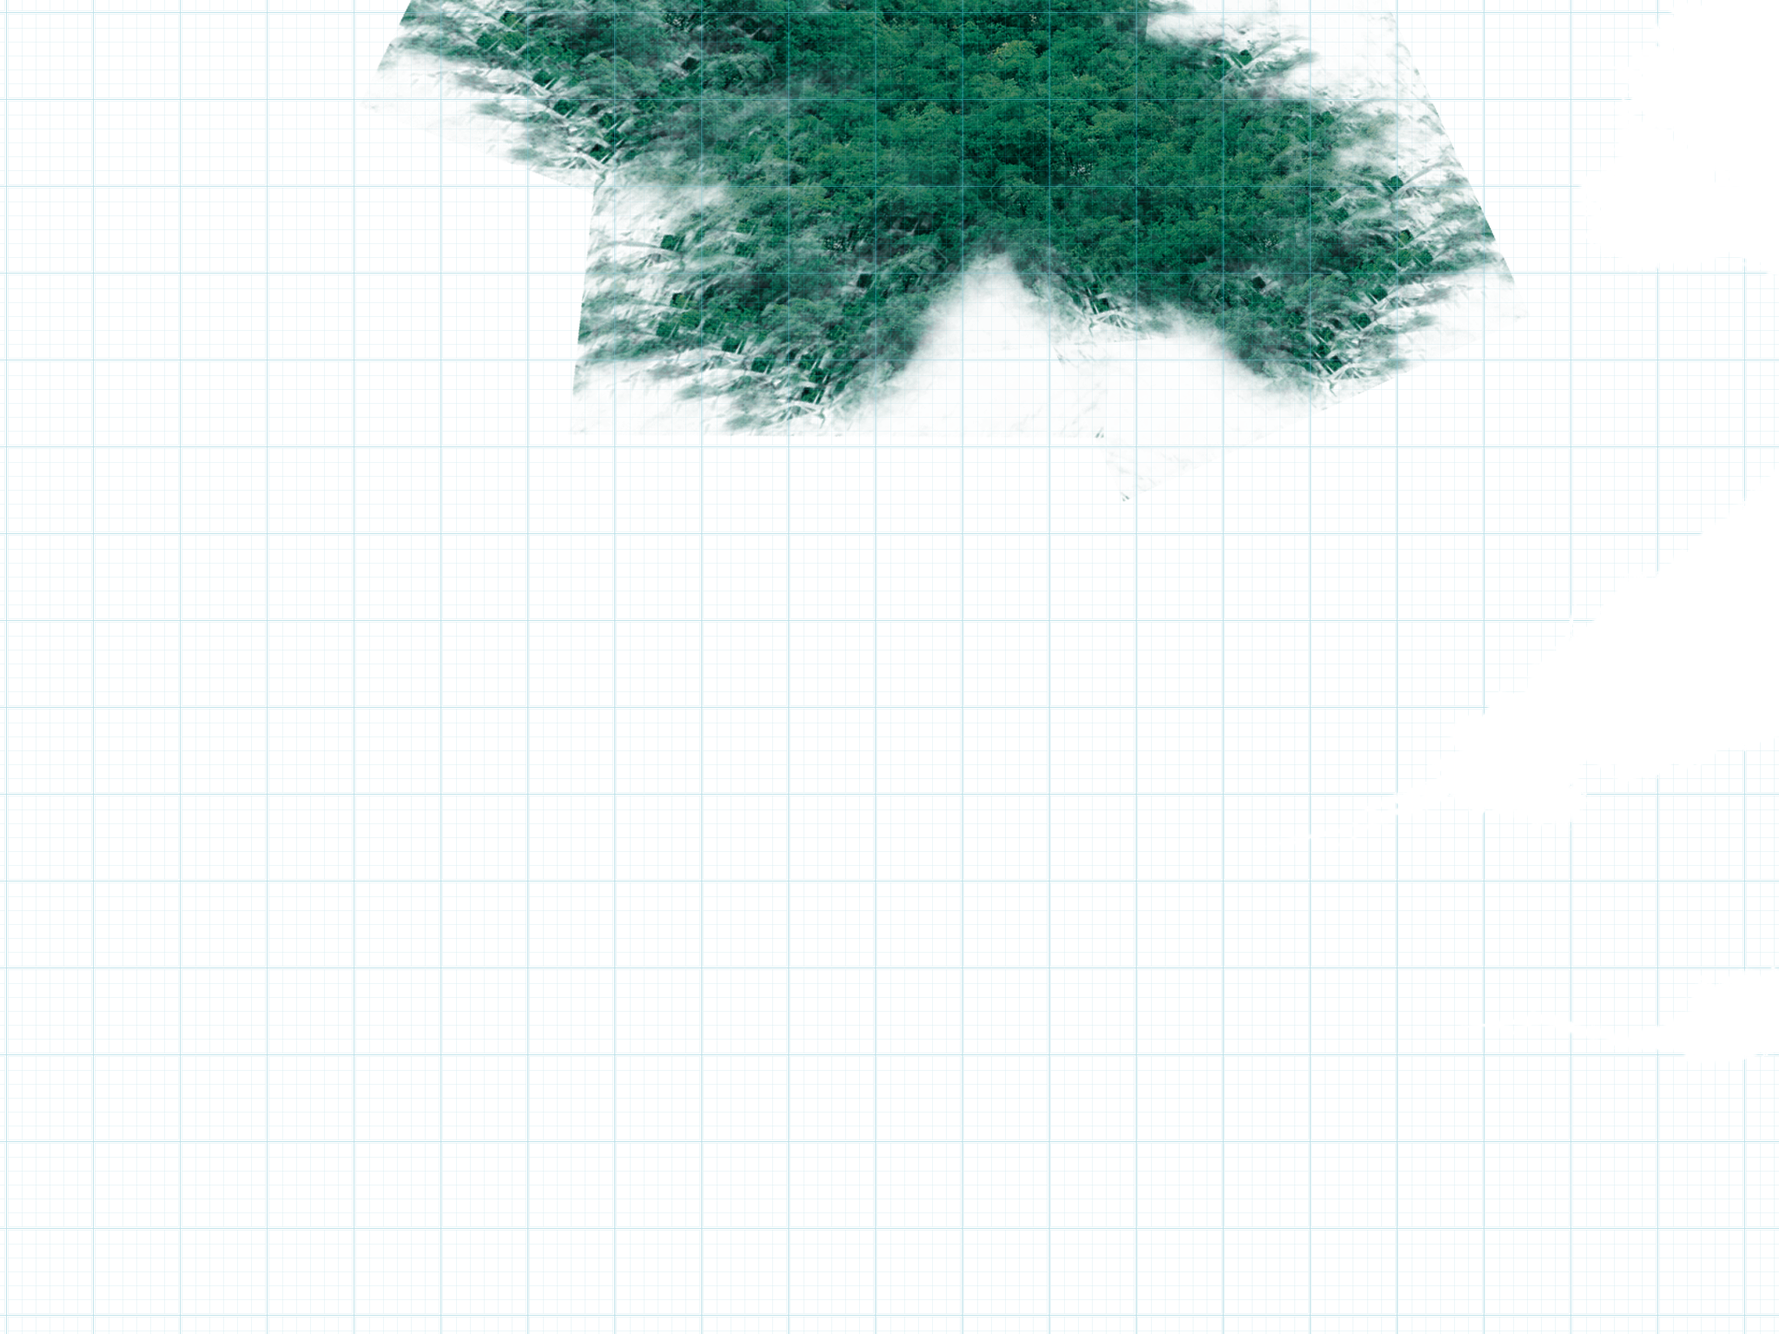
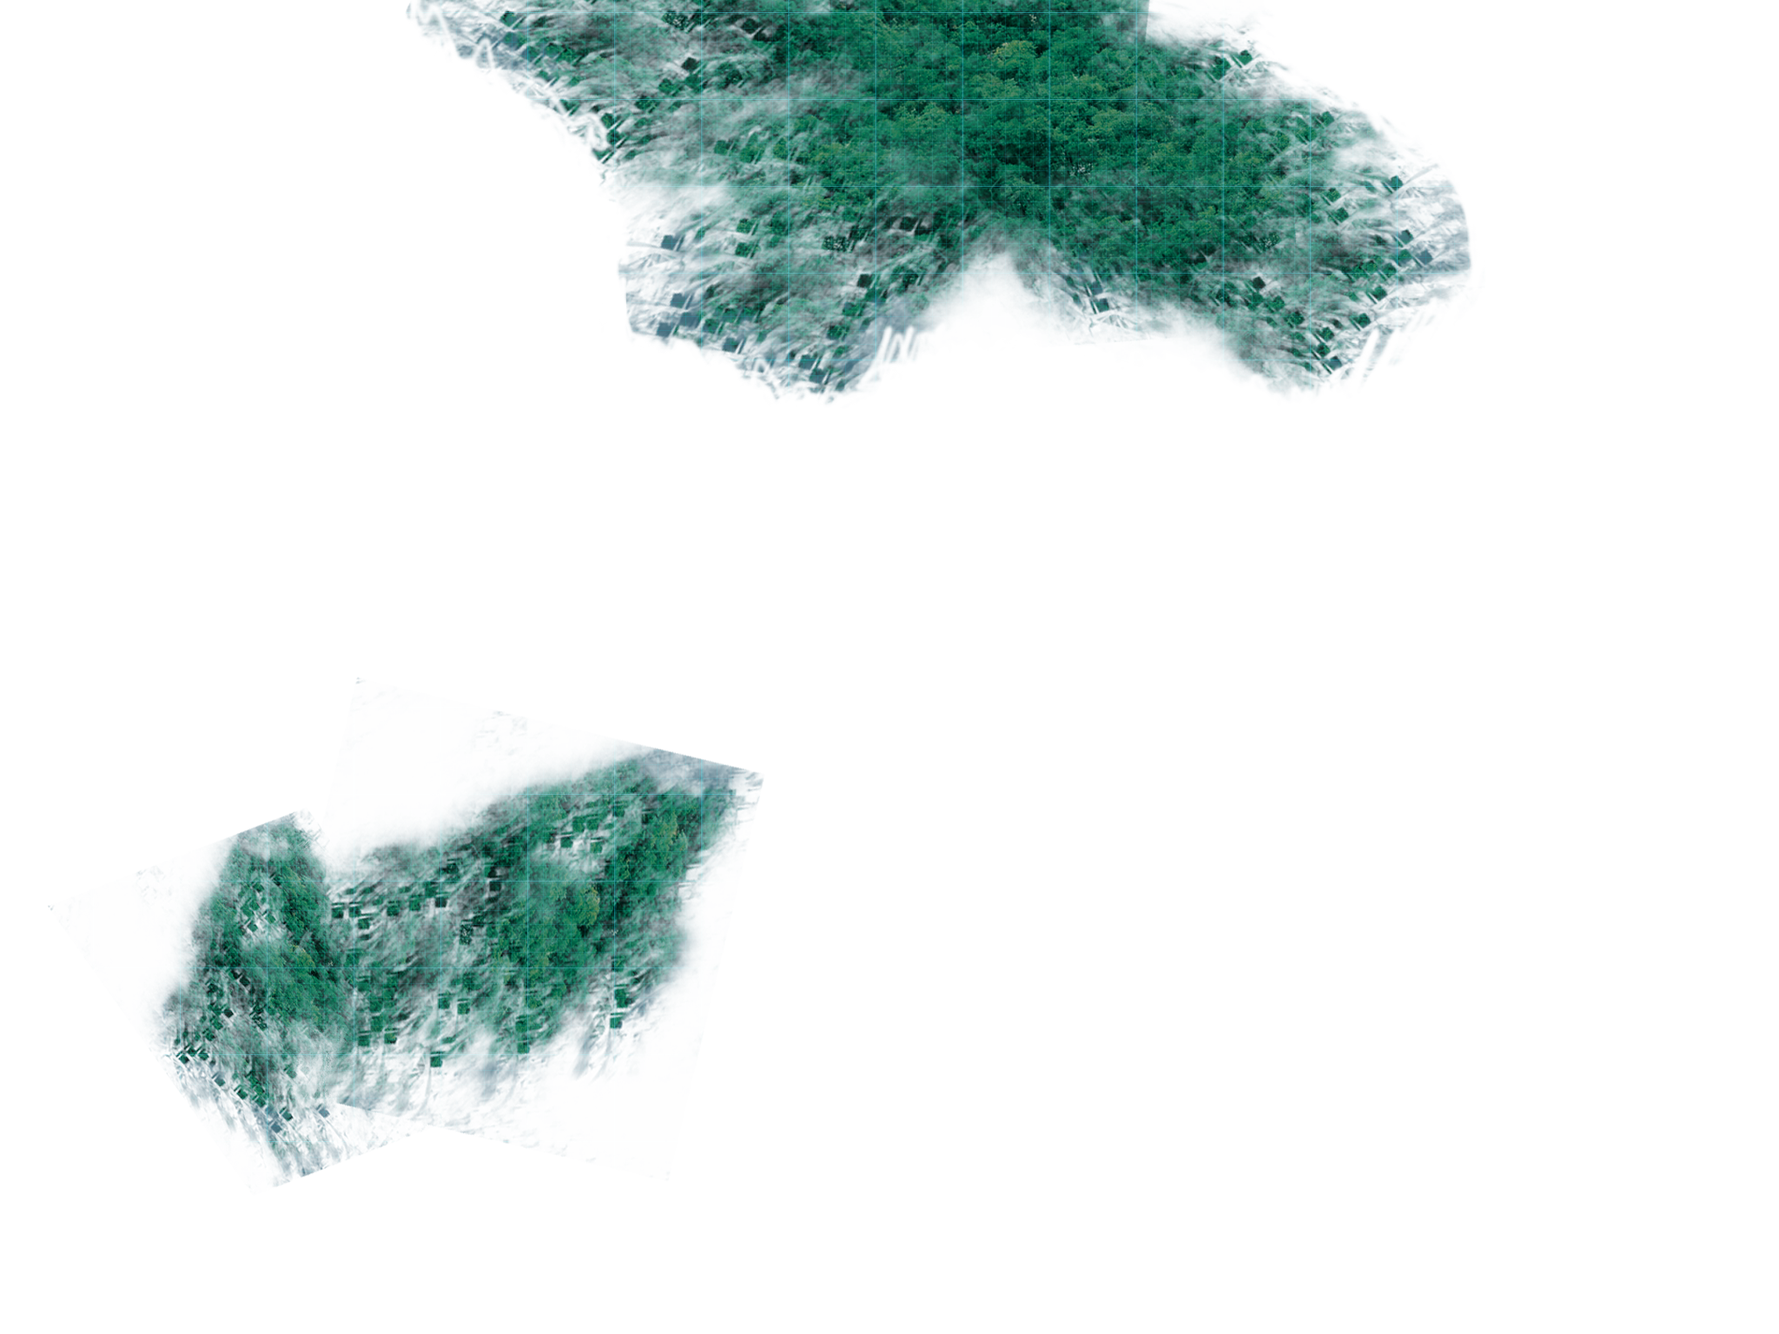
Progress time bar and fail window

Changed region(s): [[0.2188, 0.0, 0.875, 0.3438], [0.0625, 0.5625, 0.4375, 0.9062]]

diff --git a/Classes/UIGameplayMap.cpp b/Classes/UIGameplayMap.cpp
@@ -38,13 +38,17 @@ bool UIGameplayMap::init()
     Size visibleSize = Director::getInstance()->getVisibleSize();
     Vec2 origin = Director::getInstance()->getVisibleOrigin();
 
+    Size contentSize;
+    contentSize.width = 2048;
+    contentSize.height = 1536;
+
     string map = GameLevel::getInstance()->getMapFilename();
-    cout << "MAPA " << map << endl;
     //fer DEFINES
     string ext = ".png";
     string background = "Background";
     string hotSpotsBase = "HotSpotsBase";
     string resources = "Resources";
+    string forest = "Forest";
 
     /*auto ff = MenuItemImage::create("Level0FFFocus.png", "Level0FFFocus.png");
     ff->setOpacity(160);
@@ -110,7 +114,6 @@ bool UIGameplayMap::init()
     dataGameplayMapHotSpot = gameplayMapHotSpot->getData();
 
     //RESOURCES MAP (IF ANY)
-    bool resourcesMap = false;
     for (int i = 0; i < GameLevel::getInstance()->getGoals().size(); i++) {
         if (GameLevel::getInstance()->getGoals()[i]->getGoalType() == "Collection") {
             resourcesMap = true;
@@ -125,6 +128,24 @@ bool UIGameplayMap::init()
         }
         dataGameplayMapResources = new unsigned char[gameplayMapResources->getDataLen() * x];
         dataGameplayMapResources = gameplayMapResources->getData();
+
+        exploitedMapTexture = new Texture2D;
+        Image* im = new Image();
+        im->initWithImageFile(map + forest + ext);
+        //4 = alpha
+        unsigned char* data = new unsigned char[im->getDataLen() * 4];
+        data = im->getData();
+
+        exploitedMapTexture->initWithData(exploitedMapTextureData, 2048 * 1536, Texture2D::PixelFormat::RGBA8888, 2048, 1536, contentSize);
+        for (int i = 0; i < im->getWidth(); i++) {
+            for (int j = 0; j < im->getHeight(); j++) {
+                unsigned char* pixel = data + ((int)i + (int)j * im->getWidth()) * 4;
+                exploitedMapTextureData[i + (j * im->getWidth())] = Color4B(*(pixel), *(pixel + 1), *(pixel + 2), *(pixel + 3));
+            }
+        }
+        exploitedMapSprite = Sprite::createWithTexture(exploitedMapTexture);
+        exploitedMapSprite->setPosition(Vec2(visibleSize.width / 2 + origin.x, visibleSize.height / 2 + origin.y));
+        gameplayMap->addChild(exploitedMapSprite, 1);
     }
 
     GameLevel::getInstance()->setUIGameplayMap(this);
@@ -140,34 +161,12 @@ bool UIGameplayMap::init()
         exploitedMapTextureData[i] = white; // i is an index running from 0 to w*h-1
     }
 
-    Size contentSize;
-    contentSize.width = 2048;
-    contentSize.height = 1536;
-
     agentsTexture = new Texture2D;
     agentsTexture->initWithData(agentsTextureData, 2048 * 1536, Texture2D::PixelFormat::RGBA8888, 2048, 1536, contentSize);
     agentsSprite = Sprite::createWithTexture(agentsTexture);
     agentsSprite->setPosition(Vec2(visibleSize.width / 2 + origin.x, visibleSize.height / 2 + origin.y));
     gameplayMap->addChild(agentsSprite, 2);
     agentsSprite->setCascadeOpacityEnabled(true);
-
-    exploitedMapTexture = new Texture2D;
-    Image* im = new Image();
-    im->initWithImageFile("Level2Forest.png");
-    //4 = alpha
-    unsigned char* data = new unsigned char[im->getDataLen() * 4];
-    data = im->getData();
-
-    exploitedMapTexture->initWithData(exploitedMapTextureData, 2048 * 1536, Texture2D::PixelFormat::RGBA8888, 2048, 1536, contentSize);
-    for (int i = 0; i < im->getWidth(); i++) {
-        for (int j = 0; j < im->getHeight(); j++) {
-            unsigned char* pixel = data + ((int)i + (int)j * im->getWidth()) * 4;
-            exploitedMapTextureData[i + (j * im->getWidth())] = Color4B(*(pixel), *(pixel + 1), *(pixel + 2), *(pixel + 3));
-        }
-    }
-    exploitedMapSprite = Sprite::createWithTexture(exploitedMapTexture);
-    exploitedMapSprite->setPosition(Vec2(visibleSize.width / 2 + origin.x, visibleSize.height / 2 + origin.y));
-    gameplayMap->addChild(exploitedMapSprite, 1);
 
     //EVOLUTION POINTS
     //string(LocalizedString::create("EVOLUTION_POINTS")->getCString())
@@ -233,7 +232,7 @@ bool UIGameplayMap::init()
     timeSteps = Label::createWithSystemFont(to_string(GameLevel::getInstance()->getTimeSteps()), "Arial Rounded MT Bold", 70);
     timeSteps->setPosition(Vec2(pauseButton->getPosition().x - pauseButton->getContentSize().width * 1.5,
                                 pauseButton->getPosition().y));
-    this->addChild(timeSteps, 2);
+    //this->addChild(timeSteps, 2);
 
     //Attribute values
     /*Vector<MenuItem*> attributesButtons;
@@ -332,7 +331,7 @@ bool UIGameplayMap::init()
                 distanceLabel = Label::createWithTTF(" ", "fonts/BebasNeue.otf", 40);
                 distanceLabel->setColor(Color3B(216, 229, 235));
                 distanceLabel->setPosition(visibleSize.width - 80, visibleSize.height - 300);
-                this->addChild(distanceLabel);
+                //this->addChild(distanceLabel);
             } else {
                 area->setColor(Color3B::RED);
             }
@@ -346,13 +345,14 @@ bool UIGameplayMap::init()
     timeBorderBar = Sprite::create("ProgressBarBorder.png");
     timeBorderBar->setPosition(102 * visibleSize.width / 204, 145 * visibleSize.height / 155);
     this->addChild(timeBorderBar);
-    timeBar = ProgressTimer::create(Sprite::create("ProgressBarContent.png"));
+    auto barContent = Sprite::create("ProgressBarContent.png");
+    timeBar = ProgressTimer::create(barContent);
     timeBar->setType(ProgressTimer::Type::BAR);
     timeBar->setAnchorPoint(Vec2(0, 0));
     timeBar->setMidpoint(Vec2(0, 0));
     timeBar->setBarChangeRate(Vec2(1, 0));
     timeBar->setPosition(0, 0);
-    timeBorderBar->addChild(timeBar);
+    timeBorderBar->addChild(timeBar, 3);
     auto labelGoals = Label::createWithTTF(string(LocalizedString::create("GOALS")->getCString()), "fonts/BebasNeue.otf", 48);
     labelGoals->setColor(Color3B(139, 146, 154));
     labelGoals->setAnchorPoint(Vec2(0, 0.5));
@@ -360,13 +360,18 @@ bool UIGameplayMap::init()
     timeBorderBar->addChild(labelGoals, 2);
 
     //SET GOALS ON TIME PROGRESS BAR
+    float pixelPerStep = barContent->getTexture()->getPixelsWide()
+                         / (float)GameLevel::getInstance()->getGoals()[GameLevel::getInstance()->getGoals().size() - 1]->getMaxTime();
     for (int i = 0; i < GameLevel::getInstance()->getGoals().size(); i++) {
-        float posX = (float)GameLevel::getInstance()->getGoals()[i]->getAverageTime() / (float)GameLevel::getInstance()->getGoals()[GameLevel::getInstance()->getGoals().size() - 1]->getMaxTime() * timeBorderBar->getContentSize().width;
+        float posXaverage = (float)GameLevel::getInstance()->getGoals()[i]->getAverageTime() / (float)GameLevel::getInstance()->getGoals()[GameLevel::getInstance()->getGoals().size() - 1]->getMaxTime() * timeBorderBar->getContentSize().width;
         auto goalMark = Sprite::create("GoalMark.png");
-        goalMark->setPosition(posX, timeBorderBar->getContentSize().height / 2);
-        timeBorderBar->addChild(goalMark, 2);
+        float posXcentered = (float)(GameLevel::getInstance()->getGoals()[i]->getMinTime() + ((GameLevel::getInstance()->getGoals()[i]->getMaxTime() - GameLevel::getInstance()->getGoals()[i]->getMinTime()) / 2)) / (float)GameLevel::getInstance()->getGoals()[GameLevel::getInstance()->getGoals().size() - 1]->getMaxTime() * timeBorderBar->getContentSize().width;
+        goalMark->setPosition(posXcentered, timeBorderBar->getContentSize().height / 2);
+        //SET SCALE GOAL MARK
+        goalMark->setScaleX((GameLevel::getInstance()->getGoals()[i]->getMaxTime() - GameLevel::getInstance()->getGoals()[i]->getMinTime()) * pixelPerStep);
+        timeBorderBar->addChild(goalMark, 1);
         auto goalNum = Sprite::create("GoalNum.png");
-        goalNum->setPosition(posX, timeBorderBar->getContentSize().height + (3 * visibleSize.height / 155));
+        goalNum->setPosition(posXaverage, timeBorderBar->getContentSize().height + (3 * visibleSize.height / 155));
         auto labelGoalNum = Label::createWithTTF(to_string(i + 1), "fonts/BebasNeue.otf", 30);
         labelGoalNum->setPosition(goalNum->getContentSize().width / 2, goalNum->getContentSize().height / 2);
         labelGoalNum->setColor(Color3B(216, 229, 235));
@@ -1078,6 +1083,16 @@ void UIGameplayMap::moveGoalPopup(int index)
     }
 }
 
+float UIGameplayMap::getTimeProgressBar(void)
+{
+    return timeProgressBar;
+}
+
+void UIGameplayMap::setTimeProgressBar(float t)
+{
+    timeProgressBar = t;
+}
+
 float UIGameplayMap::sqrOfDistanceBetweenPoints(Point p1, Point p2)
 {
     Point diff = p1 - p2;
@@ -1255,8 +1270,6 @@ void UIGameplayMap::initializeAgents(void)
 
 void UIGameplayMap::createEndGameWindow(int mode)
 {
-    //backButton->setVisible(false);
-
     Size visibleSize = Director::getInstance()->getVisibleSize();
     auto background = Sprite::create("EndedGameBackground.png");
     background->setPosition(Vec2(visibleSize.width / 2, visibleSize.height / 2));
@@ -1287,40 +1300,40 @@ void UIGameplayMap::createEndGameWindow(int mode)
             }
             starCount++;
         }
+        auto titleLabel = Label::createWithTTF(title, "fonts/BebasNeue.otf", 120);
+        titleLabel->setColor(Color3B(255, 255, 255));
+        titleLabel->setPosition(5 * window->getContentSize().width / 18, 5 * window->getContentSize().height / 10);
+        window->addChild(titleLabel);
     } else {
         //game over
         title = LocalizedString::create("GAME_OVER")->getCString();
-        auto gameOver = Sprite::create("GameOverIcon.png");
-        gameOver->setScale(0.5, 0.5);
-        gameOver->setPosition(window->getPosition().x / 2, 5.5 * window->getContentSize().height / 8);
-        //window->addChild(gameOver);
 
         if (mode == 2) {
             text = LocalizedString::create("GOAL_NO_COMPLETED")->getCString();
         } else if (mode == 3) {
             text = LocalizedString::create("ALL_AGENTS_DIED")->getCString();
         }
+
+        auto titleLabel = Label::createWithTTF(title, "fonts/BebasNeue.otf", 120);
+        titleLabel->setColor(Color3B(255, 255, 255));
+        titleLabel->setPosition(9 * window->getContentSize().width / 18, 4 * window->getContentSize().height / 10);
+        window->addChild(titleLabel);
+
+        auto textLabel = Label::createWithSystemFont(text, "Corbel", 30);
+        textLabel->setPosition(9 * window->getContentSize().width / 18, 6 * window->getContentSize().height / 10);
+        window->addChild(textLabel);
     }
 
     string space = " ";
     string lvl = LocalizedString::create("LEVEL")->getCString() + space + to_string(GameLevel::getInstance()->getNumLevel());
-    auto levelLabel = Label::createWithTTF(lvl, "fonts/BebasNeue.otf", 136);
-    levelLabel->setColor(Color3B(139, 146, 154));
-    levelLabel->setPosition(Vec2(5 * window->getContentSize().width / 18, 8.5 * window->getContentSize().height / 10));
+    auto levelLabel = Label::createWithTTF(lvl, "fonts/BebasNeue.otf", 100);
+    levelLabel->setColor(Color3B(85, 108, 117));
+    levelLabel->setPosition(Vec2(4 * window->getContentSize().width / 18, 8.5 * window->getContentSize().height / 10));
     window->addChild(levelLabel);
-
-    auto titleLabel = Label::createWithTTF(title, "fonts/BebasNeue.otf", 100);
-    titleLabel->setColor(Color3B(255, 255, 255));
-    titleLabel->setPosition(5 * window->getContentSize().width / 18, 5 * window->getContentSize().height / 10);
-    window->addChild(titleLabel);
-
-    auto textLabel = Label::createWithTTF(text, "fonts/BebasNeue.otf", 50);
-    textLabel->setPosition(titleLabel->getPosition().x, window->getContentSize().height / 2);
-    //window->addChild(textLabel);
 
     auto continueButton = MenuItemImage::create(
         "ProgressMapPlayButton.png", "ProgressMapPlayButtonPressed.png", CC_CALLBACK_1(UIGameplayMap::menuBackCallback, this));
-    continueButton->setPosition(14 * window->getContentSize().width / 18, 2 * window->getContentSize().height / 10);
+    continueButton->setPosition(14 * window->getContentSize().width / 18, 1.5 * window->getContentSize().height / 10);
     auto continueLabel = Label::createWithTTF(LocalizedString::create("CONTINUE")->getCString(), "fonts/BebasNeue.otf", 50);
     continueLabel->setColor(Color3B(205, 202, 207));
     continueLabel->setPosition(continueButton->getContentSize().width / 2, continueButton->getContentSize().height / 2);
@@ -1331,7 +1344,7 @@ void UIGameplayMap::createEndGameWindow(int mode)
 
     auto retryButton = MenuItemImage::create(
         "ProgressMapBackButton.png", "ProgressMapBackButtonPressed.png", CC_CALLBACK_1(UIGameplayMap::retryOkCallback, this));
-    retryButton->setPosition(4 * window->getContentSize().width / 18, 2 * window->getContentSize().height / 10);
+    retryButton->setPosition(4 * window->getContentSize().width / 18, 1.5 * window->getContentSize().height / 10);
     auto retryLabel = Label::createWithTTF(LocalizedString::create("RETRY")->getCString(), "fonts/BebasNeue.otf", 50);
     retryLabel->setColor(Color3B(205, 202, 207));
     retryLabel->setPosition(retryButton->getContentSize().width / 2, retryButton->getContentSize().height / 2);
@@ -1404,7 +1417,9 @@ void UIGameplayMap::updateAgents(void)
     }
 
     agentsTexture->updateWithData(agentsTextureData, 0, 0, 2048, 1536);
-    exploitedMapTexture->updateWithData(exploitedMapTextureData, 0, 0, 2048, 1536);
+    if (resourcesMap) {
+        exploitedMapTexture->updateWithData(exploitedMapTextureData, 0, 0, 2048, 1536);
+    }
 
     /*vector<int> null;
     vector<Point> p;
@@ -1480,8 +1495,7 @@ void UIGameplayMap::update(float delta)
             play = false;
             //clock_t beforeTime = clock();
             updateAgents();
-            timeSteps->setString(to_string(GameLevel::getInstance()->getTimeSteps()));
-            timeBar->setPercentage(float(GameLevel::getInstance()->getTimeSteps()) / float(GameLevel::getInstance()->getGoals().back()->getMaxTime()) * 100.0);
+            //timeSteps->setString(to_string(GameLevel::getInstance()->getTimeSteps()));
             /*if (GameLevel::getInstance()->getNumLevel() == 2) {
                 collect1PointsLabel->setString(to_string(((CollectionGoal*)GameLevel::getInstance()->getGoals()[0])->getCurrentAmount()));
                 collect2PointsLabel->setString(to_string(((CollectionGoal*)GameLevel::getInstance()->getGoals()[1])->getCurrentAmount()));
@@ -1492,12 +1506,14 @@ void UIGameplayMap::update(float delta)
                 i++;
             }
             if (i < GameLevel::getInstance()->getGoals().size() and GameLevel::getInstance()->getGoals()[i]->getGoalType() == "Expansion") {
-                distanceLabel->setString(to_string(((ExpansionGoal*)GameLevel::getInstance()->getGoals()[i])->getMinDistanceToGoal()));
+                //distanceLabel->setString(to_string(((ExpansionGoal*)GameLevel::getInstance()->getGoals()[i])->getMinDistanceToGoal()));
             }
             play = true;
             //cout << "Pintat: " << ((float)clock() / CLOCKS_PER_SEC) - ((float)beforeTime / CLOCKS_PER_SEC) << endl;
         }
-
+        if (GameLevel::getInstance()->getGoals().empty() == false) {
+            timeBar->setPercentage(float(timeProgressBar) / float(GameLevel::getInstance()->getGoals().back()->getMaxTime()) * 100.0);
+        }
         for (int i = 0; i < powerButtons.size(); i++) {
             powerButtons[i]->update(delta);
         }
@@ -1507,8 +1523,10 @@ void UIGameplayMap::update(float delta)
         //DARRER PINTAT
         play = false;
         updateAgents();
-        timeSteps->setString(to_string(GameLevel::getInstance()->getTimeSteps()));
-        timeBar->setPercentage(float(GameLevel::getInstance()->getTimeSteps()) / float(GameLevel::getInstance()->getGoals().back()->getMaxTime()) * 100.0);
+        //timeSteps->setString(to_string(GameLevel::getInstance()->getTimeSteps()));
+        if (GameLevel::getInstance()->getGoals().empty() == false) {
+            timeBar->setPercentage(float(GameLevel::getInstance()->getTimeSteps()) / float(GameLevel::getInstance()->getGoals().back()->getMaxTime()) * 100.0);
+        }
         /*if (GameLevel::getInstance()->getNumLevel() == 2) {
             collect1PointsLabel->setString(to_string(((CollectionGoal*)GameLevel::getInstance()->getGoals()[0])->getCurrentAmount()));
             collect2PointsLabel->setString(to_string(((CollectionGoal*)GameLevel::getInstance()->getGoals()[1])->getCurrentAmount()));

diff --git a/Classes/Timing.cpp b/Classes/Timing.cpp
@@ -23,12 +23,15 @@ Timing* Timing::getInstance()
 void Timing::start(void)
 {
     clock_t stepTime = clock();
+    clock_t stepTimePart = clock();
+
     clock_t powerTime = clock();
 
     while (GameLevel::getInstance()->getFinishedGame() == 0) {
         clock_t currentTime = clock();
         if (GameLevel::getInstance()->getTimeSpeed() > 0.0) {
             float step = ((float)currentTime / CLOCKS_PER_SEC) - ((float)stepTime / CLOCKS_PER_SEC);
+            float stepPart = ((float)currentTime / CLOCKS_PER_SEC) - ((float)stepTimePart / CLOCKS_PER_SEC);
             if (step >= GameLevel::getInstance()->getTimeSpeed() and step > GameLevel::getInstance()->calcTime + 0.4 and act == false and GameLevel::getInstance()->paint == true and GameLevel::getInstance()->getUIGameplayMap()->play == true) {
                 act = true;
                 //cout << "Time: " << step << " " << act << endl;
@@ -51,8 +54,14 @@ void Timing::start(void)
                     }
                 }
             }
+            if (stepPart >= GameLevel::getInstance()->getTimeSpeed() / 10.0) {
+                GameLevel::getInstance()->getUIGameplayMap()->setTimeProgressBar(GameLevel::getInstance()->getUIGameplayMap()->getTimeProgressBar() + ((GameLevel::getInstance()->getTimeSpeed() / 10.0) / GameLevel::getInstance()->getTimeSpeed()));
+                stepTimePart = clock();
+            }
+
         } else {
             stepTime = clock();
+            stepTimePart = clock();
         }
     }
 }

diff --git a/Classes/GameLevel.cpp b/Classes/GameLevel.cpp
@@ -411,6 +411,7 @@ void GameLevel::playLevel(void)
                 }
             }*/
             timeSteps++;
+            gameplayMap->setTimeProgressBar(timeSteps);
             if (timeSteps % 2 == 0) {
                 evolutionPoints++;
             }
@@ -418,6 +419,7 @@ void GameLevel::playLevel(void)
             Timing::getInstance()->act = false;
             cout << "Calculs: " << float(clock() - stepTime) / CLOCKS_PER_SEC << endl;
             calcTime = float(clock() - stepTime) / CLOCKS_PER_SEC;
+            cout << "Num agents: " << agents[0].size() << endl;
             /*try {
                 if (float(clock() - stepTime) / CLOCKS_PER_SEC > 1.27) {
                     throw 2;
@@ -548,9 +550,9 @@ void GameLevel::act(void)
     deletedAgents.clear();
     addedAgents = 0;
 
-    for (int k = 0; k < agents.size(); k++) {
+    for (int k = 0; k < agents.size() and finishedGame == 0; k++) {
         list<Agent*>::reverse_iterator end = agents[k].rbegin();
-        while (end != agents[k].rend()) {
+        while (end != agents[k].rend() and finishedGame == 0) {
             if ((*end)->getLife() > 0) {
                 for (int j = 0; j < actions.size() - 1; j++) {
                     actions[j]->execute(k, *end);

diff --git a/Classes/UIGameplayMap.h b/Classes/UIGameplayMap.h
@@ -61,6 +61,9 @@ public:
 
     void moveGoalPopup(int index);
 
+    float getTimeProgressBar(void);
+    void setTimeProgressBar(float t);
+
     CREATE_FUNC(UIGameplayMap);
 
     bool play = false;
@@ -95,6 +98,7 @@ private:
     ProgressTimer* timeBar;
     Sprite* timeBorderBar;
     Sprite* goalPopup;
+    float timeProgressBar = 0.0;
 
     Label* timeSteps;
     Label* evolutionPointsLabel;
@@ -117,6 +121,8 @@ private:
     Sprite* exploitedMapSprite;
 
     vector<string> keys;
+
+    bool resourcesMap = false;
 
     void pinchZoomWithMovedTouch(Touch* movedTouch);
     float sqrOfDistanceBetweenPoints(Point p1, Point p2);
